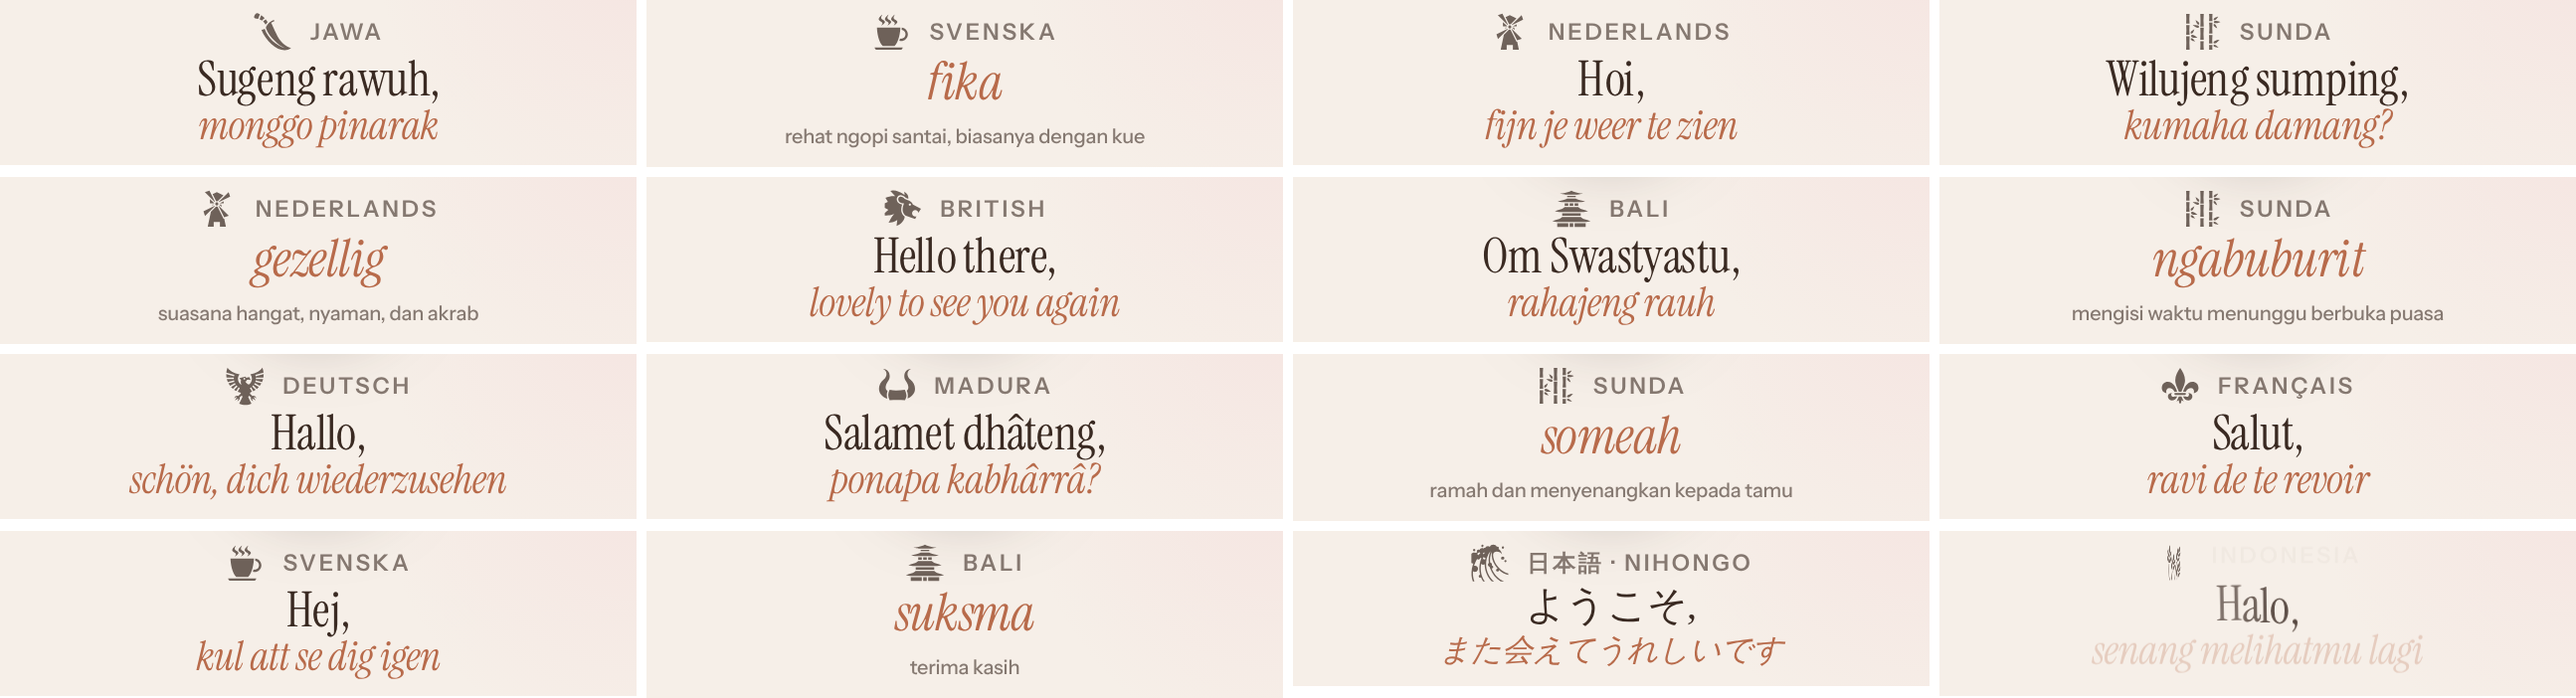
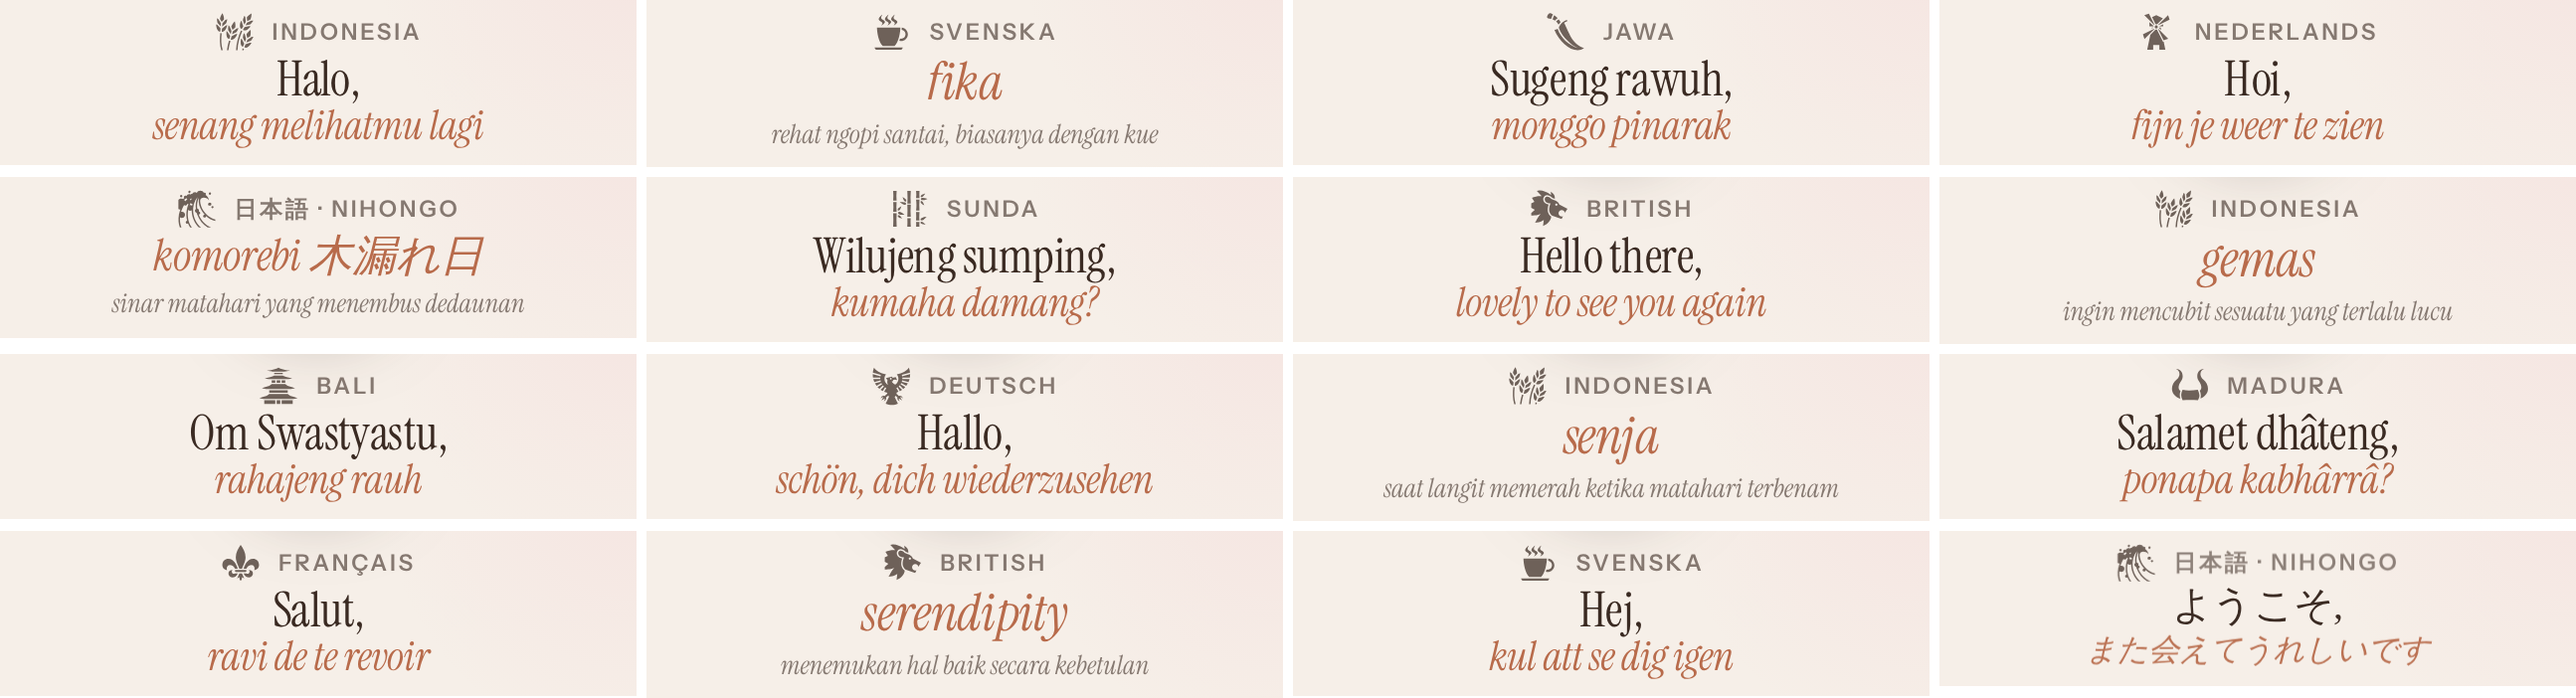
Login quote: dictionary meanings in Instrument Serif italic too
Claude-Session: https://claude.ai/code/session_01NtCyvoDvjHFmUSFRxXKysP

diff --git a/style.css b/style.css
@@ -1067,3 +1067,5 @@ html.intro-bye body > *:not(.intro) { animation: intro-bye .75s cubic-bezier(.7,
 .gate h1.hello:lang(ja) .h2l { font-size: .78em; }
 .gate h1.hello.dict:lang(ja) .h1l { font-size: 1.1em; }
 .gate h1.hello.dict:lang(ja) .h2l { font-family: var(--sans); font-size: .5em; }
+/* the whole quote in one face: the meaning under a dictionary word too */
+.gate h1.hello.dict .h2l, .gate h1.hello.dict:lang(ja) .h2l { font-family: "Instrument Serif", var(--display); font-style: italic; font-size: .66em; line-height: 1.25; letter-spacing: 0; color: var(--muted); }
